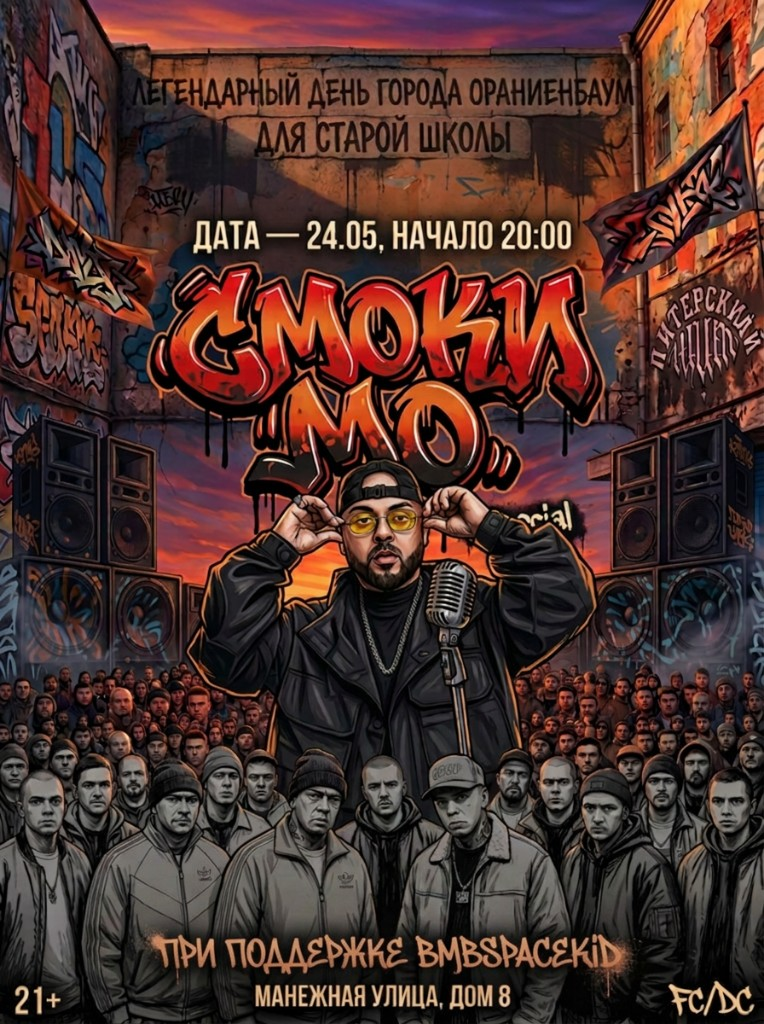
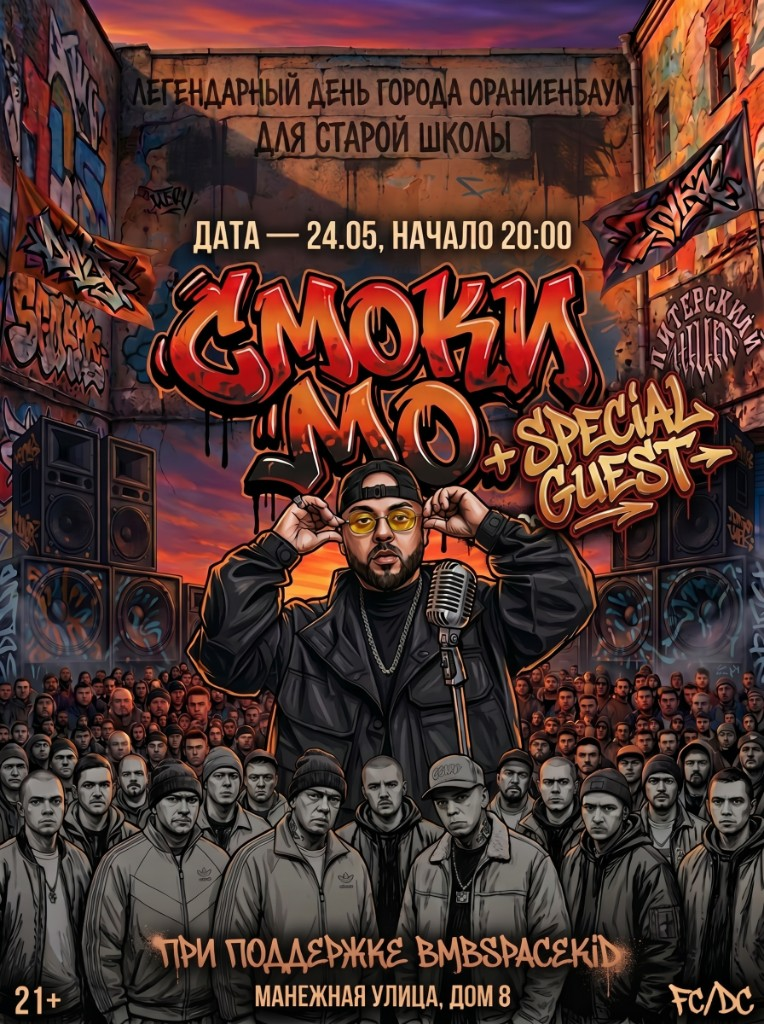
Update hero and poster artwork
Use separate supplied artwork for the hero background and event poster, and style the main artist title with a graffiti-inspired display font.

diff --git a/src/app/globals.css b/src/app/globals.css
@@ -28,8 +28,8 @@ nav.hide{transform:translateY(-100%)}
 .hero-c{position:relative;z-index:2;text-align:center;padding:2rem;max-width:900px}
 .h-tag{display:inline-flex;align-items:center;gap:.6rem;padding:.5rem 1.6rem;border:1px solid rgba(232,73,29,.4);background:rgba(232,73,29,.06);color:var(--accent);font-size:.7rem;text-transform:uppercase;letter-spacing:5px;margin-bottom:2.5rem;backdrop-filter:blur(8px);opacity:0;animation:fadeUp .8s .6s forwards}
 .h-tag::before{content:'';width:6px;height:6px;background:var(--accent);border-radius:50%;animation:pulse 2s infinite}
-.h-title{font-family:var(--font-bebas);font-size:clamp(5rem,16vw,14rem);line-height:.82;letter-spacing:-2px;opacity:0;animation:titleIn 1.2s .9s forwards}
-.h-title .line2{color:var(--accent);text-shadow:0 0 80px rgba(232,73,29,.35),0 4px 30px rgba(0,0,0,.5)}
+.h-title{font-family:var(--font-graffiti),var(--font-bebas);font-size:clamp(4.2rem,14vw,12rem);line-height:.9;letter-spacing:-5px;opacity:0;animation:titleIn 1.2s .9s forwards;text-transform:uppercase;-webkit-text-stroke:2px rgba(0,0,0,.65);text-shadow:4px 5px 0 #111,0 0 34px rgba(232,73,29,.38),0 10px 42px rgba(0,0,0,.72);transform:skew(-4deg) rotate(-1deg)}
+.h-title .line2{color:var(--accent);text-shadow:4px 5px 0 #15100e,0 0 80px rgba(232,73,29,.55),0 4px 30px rgba(0,0,0,.5)}
 .h-sub{font-family:var(--font-oswald);font-size:clamp(.9rem,2.5vw,1.5rem);color:var(--gold);letter-spacing:8px;text-transform:uppercase;margin-top:1.5rem;opacity:0;animation:fadeUp .8s 1.4s forwards}
 .h-date{display:inline-flex;align-items:center;gap:1.5rem;margin-top:2.5rem;font-family:var(--font-bebas);font-size:clamp(1.2rem,3vw,2rem);letter-spacing:6px;opacity:0;animation:fadeUp .8s 1.7s forwards}
 .h-date .sep{width:30px;height:1px;background:var(--accent)}

diff --git a/src/app/layout.tsx b/src/app/layout.tsx
@@ -1,10 +1,11 @@
 import type { Metadata } from "next";
-import { Inter, Oswald, Bebas_Neue } from "next/font/google";
+import { Inter, Oswald, Bebas_Neue, Rubik_Glitch } from "next/font/google";
 import "./globals.css";
 
 const inter = Inter({ subsets: ["latin", "cyrillic"], variable: "--font-inter" });
 const oswald = Oswald({ subsets: ["latin", "cyrillic"], variable: "--font-oswald" });
 const bebas = Bebas_Neue({ weight: "400", subsets: ["latin"], variable: "--font-bebas" });
+const graffiti = Rubik_Glitch({ weight: "400", subsets: ["latin", "cyrillic"], variable: "--font-graffiti" });
 const basePath = process.env.NEXT_PUBLIC_BASE_PATH ?? "";
 const owner = process.env.GITHUB_REPOSITORY?.split("/")[0] ?? "yourecdigital";
 
@@ -21,7 +22,7 @@ export const metadata: Metadata = {
 
 export default function RootLayout({ children }: { children: React.ReactNode }) {
   return (
-    <html lang="ru" className={`${inter.variable} ${oswald.variable} ${bebas.variable}`}>
+    <html lang="ru" className={`${inter.variable} ${oswald.variable} ${bebas.variable} ${graffiti.variable}`}>
       <body>{children}</body>
     </html>
   );

diff --git a/src/components/SmokyLanding.tsx b/src/components/SmokyLanding.tsx
@@ -136,6 +136,7 @@ function VibeScenes() {
 export default function SmokyLanding() {
   const [preloaded, setPreloaded] = useState(false);
   const [time, setTime] = useState(ZERO_TIME);
+  const heroBg = assetPath("/hero-bg.jpg");
   const poster = assetPath("/poster.jpg");
 
   useEffect(() => {
@@ -207,7 +208,7 @@ export default function SmokyLanding() {
       </nav>
 
       <section className="hero">
-        <div className="hero-img" style={{ backgroundImage: `url("${poster}")` }} />
+        <div className="hero-img" style={{ backgroundImage: `url("${heroBg}")` }} />
         <div className="hero-grad" />
         <div className="hero-noise" />
         <div className="hero-c">
